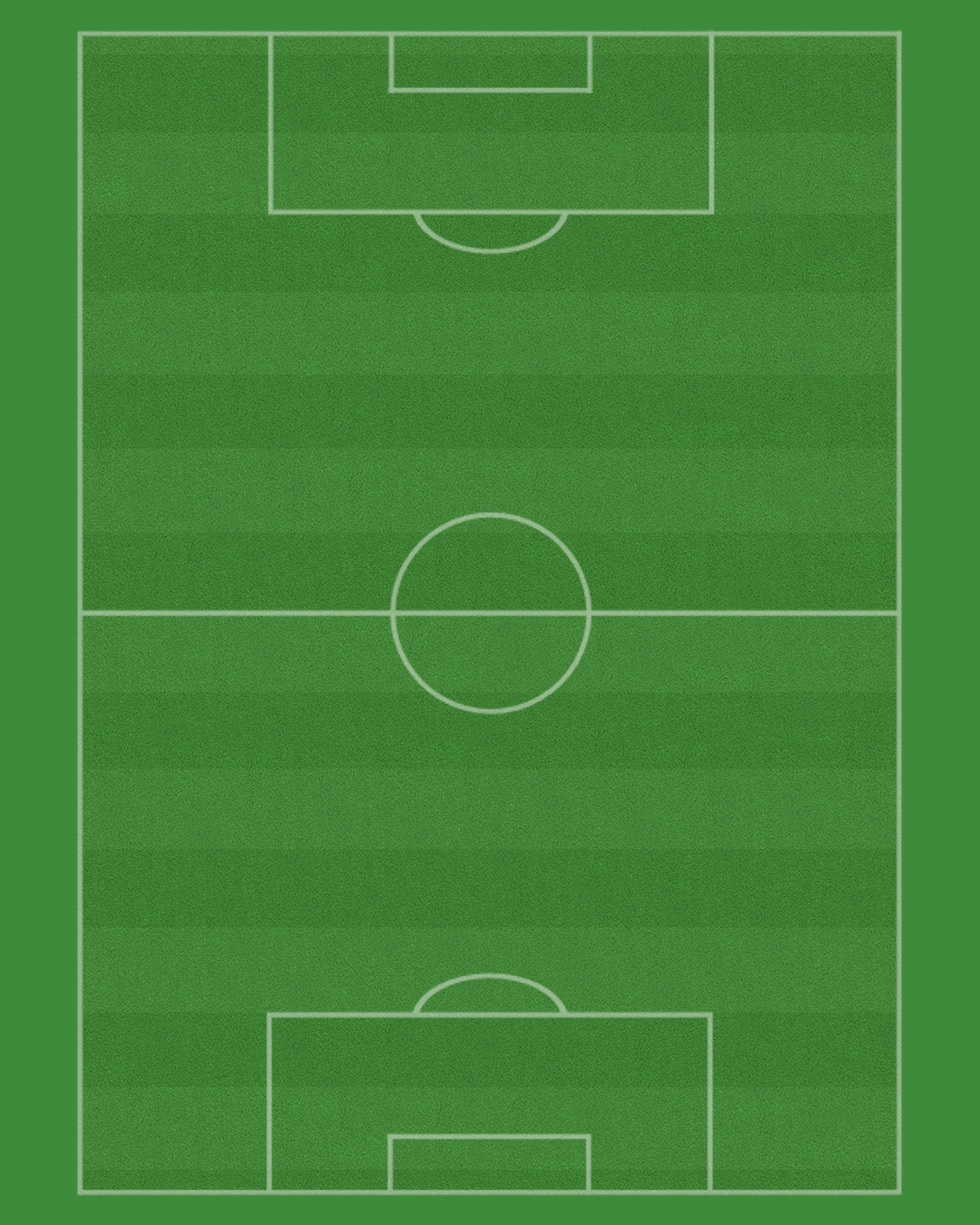
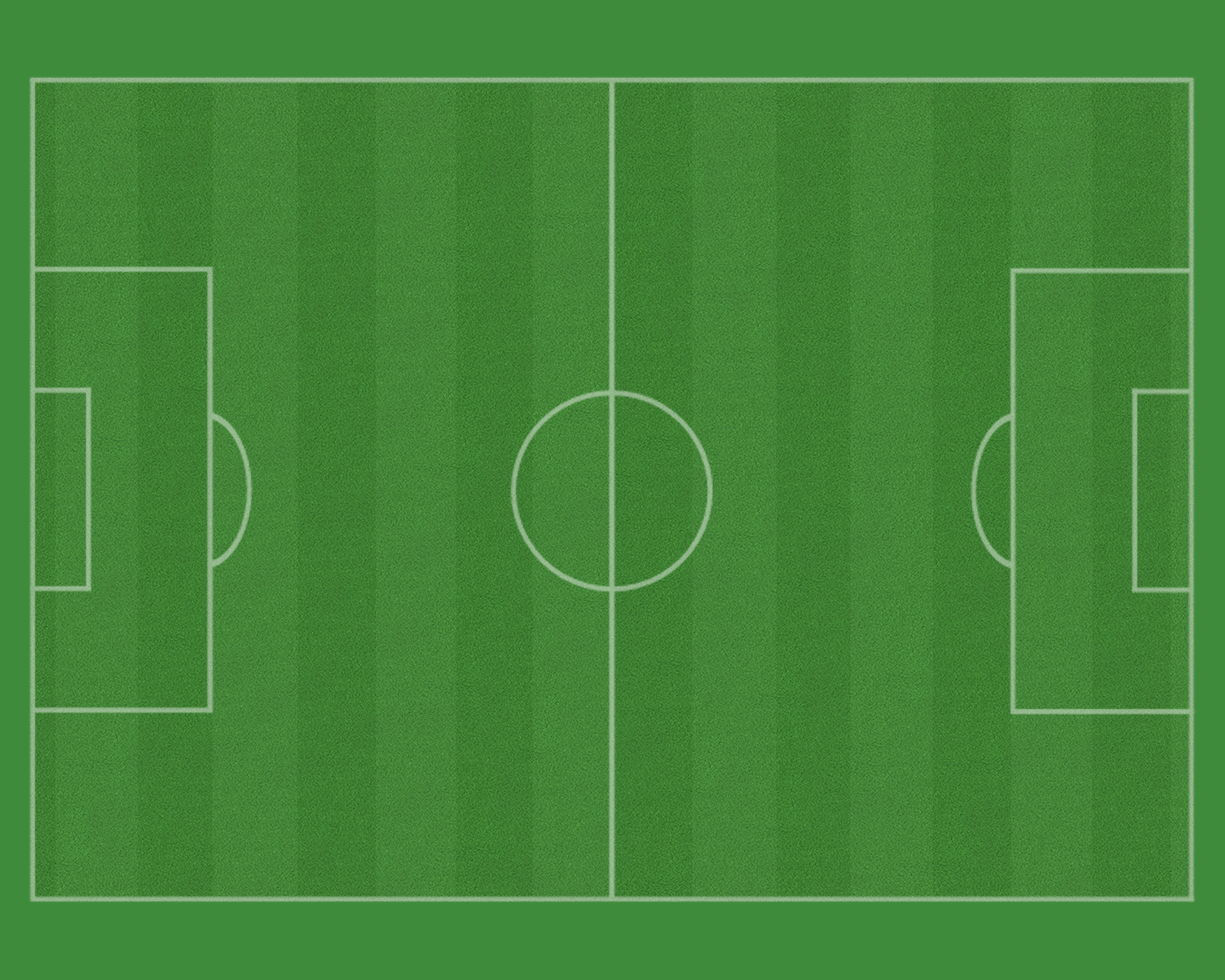
Add files via upload

Changed region(s): [[0.0, 0.0, 0.9796, 0.9796]]

diff --git a/Laren Scorebord/templates/lineup.html b/Laren Scorebord/templates/lineup.html
@@ -19,7 +19,7 @@ body{
 
     /* Achtergrond plaatje */
     background-image: url('/static/field-lq.png'); /* pad naar jouw afbeelding */
-    background-size: 70% 100%;       /* vul het hele veld */
+    background-size: 80% 100%;       /* vul het hele veld */
     background-position: center;  /* centreren */
     background-repeat: no-repeat; /* niet herhalen */
 }
@@ -98,11 +98,20 @@ socket.on("update", data => {
     f.innerHTML = "";
 
     const positions = [
-        [50,85],
-        [25,70],[40,70],[60,70],[75,70],
-        [30,50],[50,55],[70,50],
-        [25,25],[75,25],
-        [50,15]
+    [15,50],   // GK
+
+    [30,20],   // LB
+    [30,40],   // LCB
+    [30,60],   // RCB
+    [30,80],   // RB
+
+    [55,30],   // LCM
+    [45,50],   // CVM
+    [55,70],   // RCM
+
+    [65,20],   // LW
+    [70,50],   // ST
+    [65,80]    // RW
     ];
 
     // Render starters

diff --git a/Laren Scorebord/templates/control.html b/Laren Scorebord/templates/control.html
@@ -152,7 +152,7 @@ function makeInputs() {
     const l = document.getElementById("lineupInputs");
     const s = document.getElementById("subInputs");
 
-    const positions = ["K","LB","CV","CV","RB","CM","CVM","CM","LB","RB","SP"];
+    const positions = ["K","LB","CV","CV","RB","CM","CVM","CM","LB","SP","RB"];
 
     for (let i=0;i<11;i++) {
         l.innerHTML += `